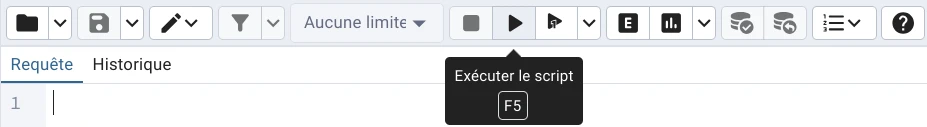
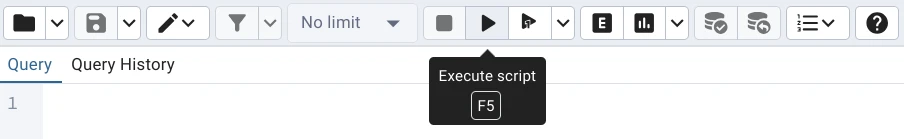
Translated the README in English and update examples config values.

diff --git a/README.md b/README.md
@@ -1,85 +1,71 @@
-# R4.C.10 - Analyse et visualisation avancée des données
+# R4.C.10 - Analysis and advanced data visualization
 
 ## Serveur local de test avec `docker compose`
 
-Si vous avez une ancienne version de Docker (inférieur à `20.10.13`),
-utilisez `docker-compose` avec un tiret au lieu de `docker compose` sans tiret.
+If you have an old version of Docker (less than `20.10.13`),
+use `docker-compose` with a dash instead of `docker compose` without a dash.
 
-### Mise en place
+### Installation
 
- 1. Assurez-vous d'être sur une branche à jour avec `main`.
+ 1. Clone the project.
 
- 2. Copiez le fichier `docker/.env.example` dans `docker/.env`
-    (`cp docker/.env.example docker/.env` depuis la racine du projet).
-    Modifiez les valeurs de `docker/.env` si nécessaire.<br>
-    `docker/.env.example` est un fichier exemple accessible par tous le monde,
-    donc ne le modifiez pas et n'y mettez aucunes informations sensibles.
+ 2. Copy the `docker/.env.example` file to `docker/.env`
+    (`cp docker/.env.example docker/.env` from the project root).
+    Change the values in `docker/.env` if necessary.<br>
+    `docker/.env.example` is an example file accessible to everyone,
+    so don't modify it or put any sensitive information in it.
 
- 3. Créez le fichier `html/php/connect_params.php` avec les information de
-    `docker/.env` sous la forme suivante&nbsp;:
+ 3. Do the same with `www/config/connect-param.php.example`.
+    Make sure the values are the same in both files.
 
-    ```php
-    <?php
-    trait ConnectionParam {
-        private string $server = 'postgresdb';      // Nom du conteneur PostgreSQL dans `docker/docker-compose.yml`
-        private string $driver = 'pgsql';
-        private string $dbname = 'test';            // Valeur de `DB_NAME` dans `docker/.env`.
-        private string $user   = 'test';            // Valeur de `DB_USER` dans `docker/.env`.
-        private string $pass   = 'test_password';   // Valeur de `DB_ROOT_PASSWORD` dans `docker/.env`.
-    }
-    ```
+ 4. Start the server the first time: in a terminal, go to the `docker/` folder, then run:
+      - Linux (bash): `docker compose up --build && docker compose logs -f`.
+      - Windows (Powershell as administrator): `docker compose up --build; if ($?) { docker compose logs -f }`
 
- 4. Lancer le serveur une première fois&nbsp;: dans un terminal, placez-vous dans le dossier `docker/`,
-    puis exécutez&nbsp;:
-      - Linux (bash)&nbsp;: `docker compose up --build && docker compose logs -f`.
-      - Windows (Powershell en mode administrateur)&nbsp;: `docker compose up --build; if ($?) { docker compose logs -f }`
+ 5. Open pgAdmin at `http://localhost:${PGADMIN_PORT}/`.
+    Replace `${PGADMIN_PORT}` with the value of `PGADMIN_PORT` in `docker/.env` (default `8081`).
+      - Email Address / Username: `${PGADMIN_EMAIL}@dbadmin-sae.com`
+        Replace `${PGADMIN_EMAIL}` with the value of `PGADMIN_EMAIL` in `docker/.env`.
+      - Password: Value of `PGADMIN_PASSWORD` in `docker/.env`.
 
- 5. Ouvrez pgAdmin à l'adresse `http://localhost:${PGADMIN_PORT}/`.
-    Remplacez `${PGADMIN_PORT}` par la valeur de `PGADMIN_PORT` dans `docker/.env` (par défaut `8081`).
-      - Identifiant&nbsp;: `${PGADMIN_EMAIL}@dbadmin-sae.com`
-        Remplacez `${PGADMIN_EMAIL}` par la valeur de `PGADMIN_EMAIL` dans `docker/.env`.
-      - Mot de passe&nbsp;:  Valeur de `PGADMIN_PASSWORD` dans `docker/.env`.
+ 6. Add a new server:
 
- 6. Ajoutez un serveur avec les information suivantes&nbsp;:
+      - Tab `General`
+          - Name: Choose a name, e.g. `r4c10`.
 
-      - Onglet `Général`
-          - Nom&nbsp;: Choisissez un nom, par exemple `r4c10`.
-
-      - Onglet `Connexion`
-          - Nom d'hôte / Adresse&nbsp;: `postgresdb` (Nom du conteneur PostgreSQL dans `docker/docker-compose.yml`)
+      - Tab `Connection`
+          - Host name/address: `postgresdb` (Name of the PostgreSQL service in `docker/docker-compose.yml`)
           - Port&nbsp;: `5432`
-          - Base de données de maintenance&nbsp;: Valeur de `DB_NAME` dans `docker/.env`.
-          - Identifiant&nbsp;: Valeur de `DB_USER` dans `docker/.env`.
-          - Authentification Kerberos&nbsp;?&nbsp;: Désactivé
-          - Mot de passe&nbsp;: Valeur de `DB_ROOT_PASSWORD` dans `docker/.env`.
+          - Maintenance database: `DB_NAME` value in `docker/.env`.
+          - Username: `DB_USER` value in `docker/.env`.
+          - Kerberos authentication?: `off`
+          - Password: `DB_ROOT_PASSWORD` value in `docker/.env`.
 
-        Laissez les valeurs par défaut pour le reste.
+        Leave the rest to default values.
 
- 7. Ouvrez l'éditeur de requêtes (`Alt` + `Shift` + `Q`)
+ 7. Select the database and open the query tool (`Alt` + `Shift` + `Q`)
 
-    ![C'est le bouton avec une icône de BDD avec une flèche devant](readme-images/query-editor.webp)
+    ![The button with a BDD icon and an arrow in front of it](readme-images/query-tool.webp)
 
- 8. Copier le contenu de `sql/createdb.sql` dans l'éditeur de requêtes puis exécutez le script (`F5`).
+ 8. Copy the contents of the `sql/createdb.sql` file into the query tool, then run the script (`F5`).
 
-    ![C'est le bouton avec la flèche](readme-images/execute-script.webp)
+    ![The button with an arrow](readme-images/execute-script.webp)
 
-Après avoir effectuer ces étapes, le serveur local devrait être prêt.
+### Starting the server
 
-### Lancement du serveur
+To start the server, open a terminal in `docker/` and run:
 
-Pour lancer le serveur, ouvrez un terminal dans `docker/` et exécutez&nbsp;:
+- Linux (bash): `docker compose up && docker compose logs -f`.
+- Windows (Powershell): `docker compose up; if ($?) { docker compose logs -f }`
 
-- Linux (bash)&nbsp;: `docker compose up && docker compose logs -f`.
-- Windows (Powershell)&nbsp;: `docker compose up; if ($?) { docker compose logs -f }`
+### Access the app
 
-### Accéder au site
+The app will be accessible at `http://localhost:${PORT_WEB}/`.<br>
+Remplace `${PORT_WEB}` with the value of `PORT_WEB` in `docker/.env` (default `8080`).
 
-Le site sera accessible à l’adresse `http://localhost:${PORT_WEB}/`.<br>
-Remplacez `${PORT_WEB}` par la valeur de `PORT_WEB` dans `docker/.env` (par défaut `8080`).
+### Stop the serveur
 
-### Arrêter le serveur
-
-Pour arrêter le serveur sans supprimer les données du conteneur,
-ouvrez un terminal dans `docker/` et  exécutez `docker compose down`.<br>
-Pour arrêter le serveur et supprimer les données du conteneur,
-ouvrez un terminal dans `docker/` et  exécutez `docker compose down -v`.
+To stop the server without deleting the container data,
+open a terminal in `docker/` and run `docker compose down`.<br>
+To stop the server and delete the container data,
+open a terminal in `docker/` and run `docker compose down -v`.
